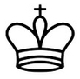
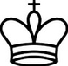
Changement affichage image : fonction refresh dans Chessboard pour rafraichir le plateau

diff --git a/ChessIA/ChessIA/Chessboard.cs b/ChessIA/ChessIA/Chessboard.cs
@@ -13,11 +13,14 @@ namespace ChessIA
     {
 		private Piece[] pieces;
 		private bool turn;
+        private TableLayoutPanel layoutPanel;
 
 		public static int SIZE = 8;
 		
         public Chessboard(TableLayoutPanel panel)
         {
+            layoutPanel = panel;
+
 			pieces = new Piece[24];
 			pieces[0] = new Rook(new Position(0, 0), true, "../../Images/noir_tour.png", panel);
 			pieces[1] = new Bishop(new Position(2, 0), true, "../../Images/noir_fou.png", panel);
@@ -49,6 +52,8 @@ namespace ChessIA
 			pieces[21] = new Pawn(new Position(2, 5), false, "../../Images/blanc_pion.png", panel);
 			pieces[22] = new Pawn(new Position(4, 5), false, "../../Images/blanc_pion.png", panel);
 			pieces[23] = new Pawn(new Position(6, 5), false, "../../Images/blanc_pion.png", panel);
+
+            refresh();
 
 			turn = false; // Tour des blancs au demarrage
         }
@@ -108,5 +113,12 @@ namespace ChessIA
 		{
 			return this.turn;
 		}
+        public void refresh()
+        {
+            foreach(Piece p in pieces)
+            {
+                layoutPanel.SetCellPosition(p.getPicture(), new TableLayoutPanelCellPosition(p.getPos().getX(), p.getPos().getY()));
+            }
+        }
     }
 }

diff --git a/ChessIA/ChessIA/Piece.cs b/ChessIA/ChessIA/Piece.cs
@@ -23,8 +23,9 @@ namespace ChessIA
 			FileStream fs = new FileStream(pathImage, FileMode.Open);
 			picture.Image = Image.FromStream(fs);
 			picture.Parent = parentPanel;
+            int size = (int)parentPanel.Size.Height / (int)parentPanel.ColumnCount;
+            picture.Size = new Size(new Point(size, size));
 			fs.Close();
-			refreshPicture();
 		}
 
 		// Bouge la piece a la position pos en effectuant les tests necessaires
@@ -52,10 +53,16 @@ namespace ChessIA
 		{
 			return position;
 		}
+        public PictureBox getPicture()
+        {
+            return this.picture;
+        }
 		public void refreshPicture()
 		{
+            /*
 			this.picture.Location = new Point(position.getX() * (picture.Parent.Size.Height / 8) + picture.Parent.Left, position.getY() * (picture.Parent.Size.Width / 8) + picture.Parent.Top);
 			Console.WriteLine("IMAGE POSITION : " + (position.getX() * (picture.Parent.Size.Height / 8) + picture.Parent.Left) + "/" + (position.getY() * (picture.Parent.Size.Width / 8) + picture.Parent.Top));
-		}
+	        */	
+        }
     }
 }

diff --git a/ChessIA/ChessIA/ChessIA.cs b/ChessIA/ChessIA/ChessIA.cs
@@ -63,6 +63,7 @@ namespace ChessIA
 				board.changeTurn();
 				blackRadioButton.Checked = board.getTurn();
 				whiteRadioButton.Checked = !board.getTurn();
+                board.refresh();
 			}
 		}
     }
